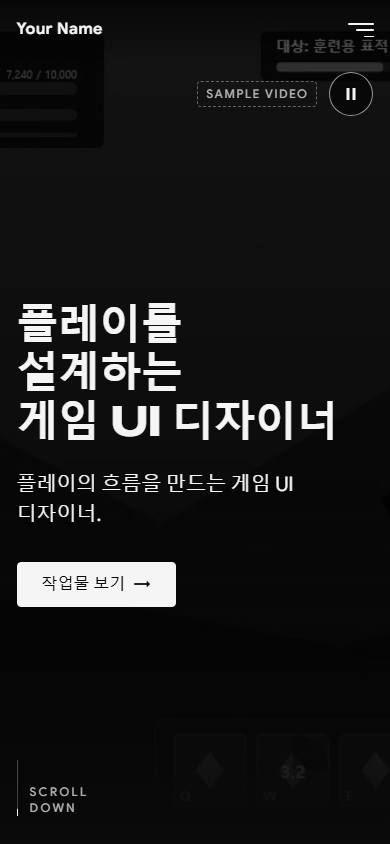
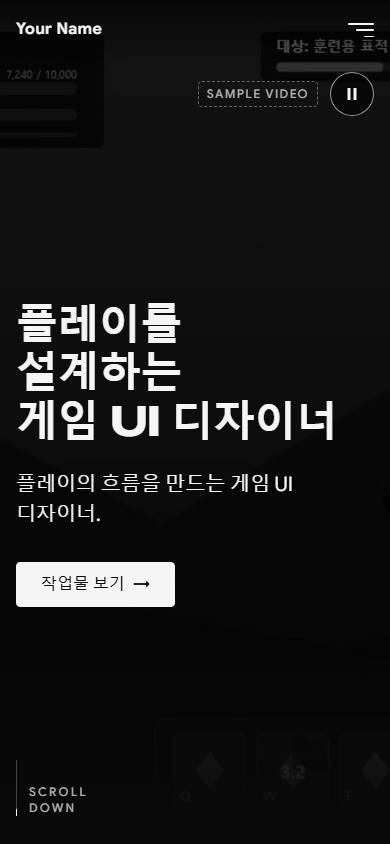
feat: REVIEW-PR-003-004 R2 — 헤더·히어로·메뉴 화면 폭 레이아웃
- .container-wide: 최대 폭 없이 화면 폭 사용, 좌우 여백 --gutter-wide clamp(1rem, 4vw, 10rem)
  + 세이프 영역. 헤더·히어로(제어/제목/하단)·전체 화면 메뉴에만 적용
- 로고·제목·소개·CTA·SCROLL DOWN·메뉴 링크 왼쪽 선, 3선 버튼·영상 제어·닫기 오른쪽 선 통일
  (3선 버튼 margin -9px), 메뉴를 열어도 로고·버튼 위치 유지
- 제목 크기 규칙·3행, 카드 목록·상세 본문 읽기 폭(1280px)은 유지
- verify: 320~3840px 정렬 검사, screenshots: 1920/2560/3840 히어로·메뉴(DSF 1) 추가·전체 갱신

diff --git a/src/styles/global.css b/src/styles/global.css
@@ -104,6 +104,17 @@ button {
   padding-inline: var(--gutter);
 }
 
+/*
+ * 화면 폭 레이아웃 — 헤더·메인 히어로·전체 화면 메뉴 전용.
+ * 넓은 화면에서도 로고·제목·SCROLL DOWN은 같은 왼쪽 선, 메뉴 버튼·영상 제어·닫기 버튼은 같은 오른쪽 선에 둔다.
+ * 프로젝트 목록·상세 본문은 읽기 폭을 위해 기존 .container(최대 약 1280px)를 그대로 쓴다.
+ */
+.container-wide {
+  width: 100%;
+  padding-left: max(var(--gutter-wide), env(safe-area-inset-left));
+  padding-right: max(var(--gutter-wide), env(safe-area-inset-right));
+}
+
 .prose {
   max-width: var(--reading-max);
 }

diff --git a/src/styles/tokens.css b/src/styles/tokens.css
@@ -55,6 +55,7 @@
   --space-7: 3rem;
   --space-section: clamp(3.5rem, 2.5rem + 4vw, 6.5rem);
   --gutter: clamp(1rem, 0.6rem + 1.8vw, 2rem); /* 좌우 여백: 320px에서 약 16px */
+  --gutter-wide: clamp(1rem, 4vw, 10rem); /* 헤더·히어로·메뉴의 화면 폭 레이아웃 여백: 1440px 58px · 1920px 77px · 2560px 102px */
 
   /* 크기·테두리 */
   --content-max: 80rem; /* 약 1280px */
